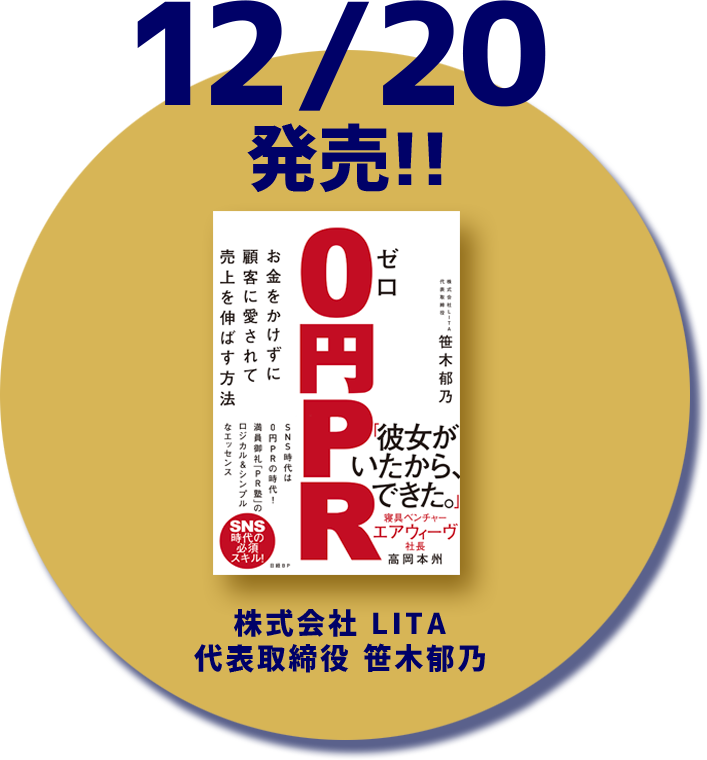
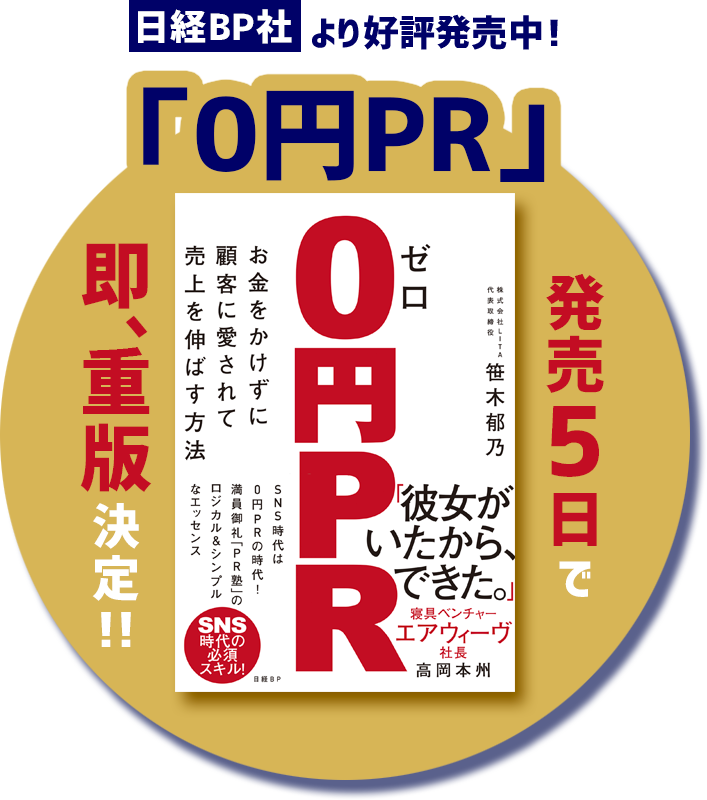
トップの本の画像と帯の変更

diff --git a/style.css b/style.css
@@ -1242,7 +1242,7 @@ ul {
 }
 
 .top-page .heroimg-wrapper__bookInformation {
-  width: 300px;
+  width: 260px;
   height: auto;
   position: absolute;
   right: 40px;
@@ -1500,12 +1500,12 @@ ul {
   font-size: 40px;
 }
 
-.top-page .book-anouncement {
+.book-anouncement {
   background-color: #000066;
   color: #fff;
   margin-bottom: 80px;
 }
-.top-page .book-anouncement__inner {
+.book-anouncement__inner {
   display: flex;
   justify-content: center;
   align-items: flex-start;
@@ -1515,33 +1515,72 @@ ul {
   color: #fff;
   text-decoration: none;
 }
-.top-page .book-anouncement__heading {
+
+.book-anouncement__bookFigure {
+  display: flex;
+  justify-content: center;
+  align-items: center;
+  width: 110px;
+  height: 110px;
+  background-color: #b50007;
+  border-radius: 50%;
+  text-align: center;
+}
+
+.book-anouncement__bookFiguteText {
   color: #fff;
-  margin: 20px 24px 0 0;
+  font-size: 14px;
+  line-height: 1.3;
+  font-feature-settings: "palt";
+}
+
+.book-anouncement__bookFigureEmphasis {
+  font-size: 26px;
+}
+
+.book-anouncement__heading {
+  color: #fff;
+  text-align: center;
+  margin: 26px 0 8px 0;
   font-size: 20px;
   min-width: 40px;
 }
 
-.top-page .book-anouncement__image {
+.book-anouncement__image {
   width: 146px;
+  margin-left: 12px;
 }
 
-.top-page .book-anouncement__bookInformation {
+.book-anouncement__bookInformation {
   display: flex;
   flex-direction: column;
   margin-left: 12px;
 }
 
-.top-page .book-anouncement__bookName {
-  margin: 28px 0 4px 0;
+.book-anouncement__subTitle {
+  margin: 17px 0 4px;
+  font-size: 14px;
+}
+
+.book-anouncement__subTitleEmphasis {
+  display: inline-block;
+  margin-right: 4px;
+  padding: 0 2px;
+  font-size: 16px;
+  color: #000066;
+  background-color: #fff;
+}
+
+.book-anouncement__bookName {
+  margin: 0 0 4px 0;
   font-size: 28px;
   font-feature-settings: "palt";
   letter-spacing: 2px;
 }
-.top-page .book-anouncement__text {
+.book-anouncement__text {
   margin: 0;
 }
-.top-page .book-anouncement__bookCover {
+.book-anouncement__bookCover {
   display: flex;
   align-items: flex-start;
 }
@@ -1856,7 +1895,7 @@ ul {
     font-size: 56px;
   }
   .top-page .heroimg-wrapper__bookInformation {
-    width: 120px;
+    width: 160px;
     right: 16px;
     bottom: 16px;
   }
@@ -2024,31 +2063,47 @@ ul {
   .top-page .service-wrapper .service-list .detail {
     margin-top: 32px;
   }
-  .top-page .book-anouncement__inner {
+  .book-anouncement__inner {
     display: block;
     padding: 24px 0;
   }
-  .top-page .book-anouncement__image {
-    width: 96px;
+  .book-anouncement__image {
+    width: 140px;
+    margin-left: 0;
   }
-  .top-page .book-anouncement__bookInformation {
+  .book-anouncement__bookInformation {
     margin-left: 0;
     align-items: center;
   }
-  .top-page .book-anouncement__bookCover {
+  .book-anouncement__bookCover {
+    margin-bottom: 8px;
     justify-content: center;
   }
-  .top-page .book-anouncement__bookName {
+  .book-anouncement__bookName {
     margin-top: 0;
     font-size: 24px;
   }
-  .top-page .book-anouncement__text {
+  .book-anouncement__bookFiguteText {
+    font-size: 14px;
+  }
+  .book-anouncement__bookFigureEmphasis {
+    font-size: 24px;
+  }
+  .book-anouncement__bookFigure {
+    width: 100px;
+    height: 100px;
+  }
+  .book-anouncement__subTitle {
+    margin-top: 0;
+  }
+  .book-anouncement__text {
     text-align: center;
     font-size: 14px;
   }
-  .top-page .book-anouncement__heading {
-    margin: 28px 0 0 -40px;
-    font-size: 16px;
+  .book-anouncement__heading {
+    margin: 8px 0;
+    text-align: right;
+    font-size: 22px;
   }
 }
 
@@ -4089,51 +4144,6 @@ ul {
   }
   .page-about-lita .activity .activity-list-wrapper .activity-list {
     font-size: 16px;
-  }
-  .page-about-lita .book-anouncement {
-    background-color: #000066;
-    color: #fff;
-    display: block;
-    margin: 24px 0 40px;
-  }
-  .page-about-lita .book-anouncement__inner {
-    margin: 0 auto;
-    max-width: 400px;
-    display: block;
-    padding: 24px 0;
-    color: #fff;
-    text-decoration: none;
-  }
-  .page-about-lita .book-anouncement__heading {
-    min-width: 40px;
-    margin: 28px 0 0 -40px;
-    font-size: 16px;
-    color: #fff;
-  }
-  .page-about-lita .book-anouncement__image {
-    width: 96px;
-  }
-  .page-about-lita .book-anouncement__bookInformation {
-    display: flex;
-    flex-direction: column;
-    align-items: center;
-    margin-left: 0;
-  }
-  .page-about-lita .book-anouncement__bookName {
-    margin: 0 0 4px 0;
-    font-size: 24px;
-    font-feature-settings: "palt";
-    letter-spacing: 2px;
-  }
-  .page-about-lita .book-anouncement__text {
-    margin: 0;
-    text-align: center;
-    font-size: 14px;
-  }
-  .page-about-lita .book-anouncement__bookCover {
-    display: flex;
-    align-items: flex-start;
-    justify-content: center;
   }
 }
 

diff --git a/page-about-lita.php b/page-about-lita.php
@@ -178,21 +178,7 @@ get_header();
                 </div><!-- horizontal -->
             </section>
             <section class="book-anouncement sp">
-                <a href="/book-anouncement" class="book-anouncement__inner">
-                    <div class="book-anouncement__bookCover">
-                        <h1 class="book-anouncement__heading">著書</h1>
-                        <img src="<?php echo content_url() ?>/themes/lita/assets/img/book_front.png" alt="0円PR" class="book-anouncement__image">
-                    </div>
-                    <div class="book-anouncement__bookInformation">
-                        <h2 class="book-anouncement__bookName">「０円PR」</h2>
-                        <p class="book-anouncement__text">
-                            株式会社LITA・代表の笹木郁乃の初書籍。<br />
-                            中小ベンチャー企業・スタートアップの経営者様、<br />
-                            広報担当者の皆様にオススメの一冊です。<br />
-                            全国の書店ほかamazonでもご購入いただけます。
-                        </p>
-                    </div>
-                </a>
+                <?php get_template_part('bookAnouncement_band'); ?>
             </section>
             <section class="sec banner-area horizontal fadein">
                 <a href="/blog" class="banner-link"><img src="<?php echo content_url() ?>/themes/lita/assets/img/blog_banner.jpg" alt="president_blog" class="banner"></a>

diff --git a/bookAnouncement_band.php b/bookAnouncement_band.php
@@ -1,0 +1,24 @@
+<a href="/book-anouncement" class="book-anouncement__inner">
+    <div class="book-anouncement__bookCover">
+        <div class="book-anouncement__bookHeading">
+            <h1 class="book-anouncement__heading">著書</h1>
+            <div class="book-anouncement__bookFigure">
+                <p class="book-anouncement__bookFiguteText">発売5日で<br /><strong
+                        class="book-anouncement__bookFigureEmphasis">即、重版</strong><br />決定!!</p>
+            </div>
+        </div>
+        <img src="<?php echo content_url() ?>/themes/lita/assets/img/book_front.png" alt="0円PR"
+            class="book-anouncement__image">
+    </div>
+    <div class="book-anouncement__bookInformation">
+        <p class="book-anouncement__subTitle"><strong class="book-anouncement__subTitleEmphasis">日経BP社</strong>より好評発売中！
+        </p>
+        <h2 class="book-anouncement__bookName">「０円PR」</h2>
+        <p class="book-anouncement__text">
+            株式会社LITA・代表の笹木郁乃の初書籍。<br />
+            中小ベンチャー企業・スタートアップの経営者様、<br />
+            広報担当者の皆様にオススメの一冊です。<br />
+            全国の書店ほかamazonでもご購入いただけます。
+        </p>
+    </div>
+</a>

diff --git a/index.php b/index.php
@@ -108,21 +108,7 @@ get_header();
 					</div>
 				</section>
 				<section class="book-anouncement">
-					<a href="/book-anouncement" class="book-anouncement__inner">
-						<div class="book-anouncement__bookCover">
-							<h1 class="book-anouncement__heading">著書</h1>
-							<img src="<?php echo content_url() ?>/themes/lita/assets/img/book_front.png" alt="0円PR" class="book-anouncement__image">
-						</div>
-						<div class="book-anouncement__bookInformation">
-							<h2 class="book-anouncement__bookName">「０円PR」</h2>
-							<p class="book-anouncement__text">
-								株式会社LITA・代表の笹木郁乃の初書籍。<br />
-								中小ベンチャー企業・スタートアップの経営者様、<br />
-								広報担当者の皆様にオススメの一冊です。<br />
-								全国の書店ほかamazonでもご購入いただけます。
-							</p>
-						</div>
-					</a>
+					<?php get_template_part('bookAnouncement_band'); ?>
 				</section>
 				<section class="acitivity-wrapper">
 					<img src="<?php echo content_url() ?>/themes/lita/assets/img/activity@2x.png" alt="" class="activity-img pc">
